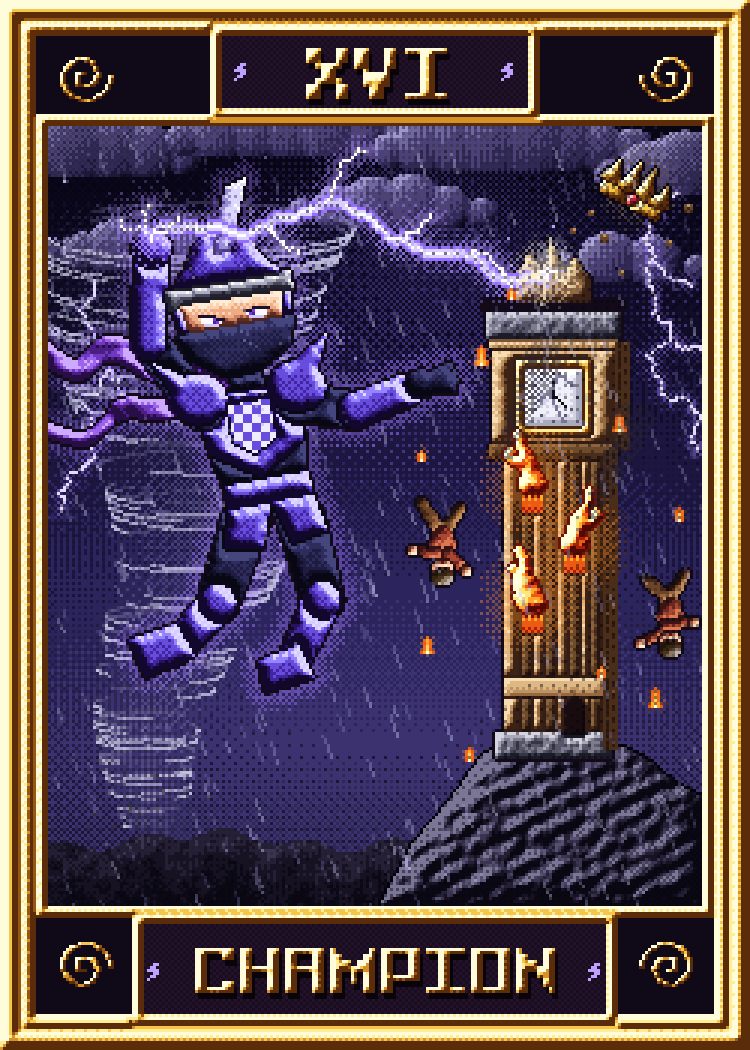
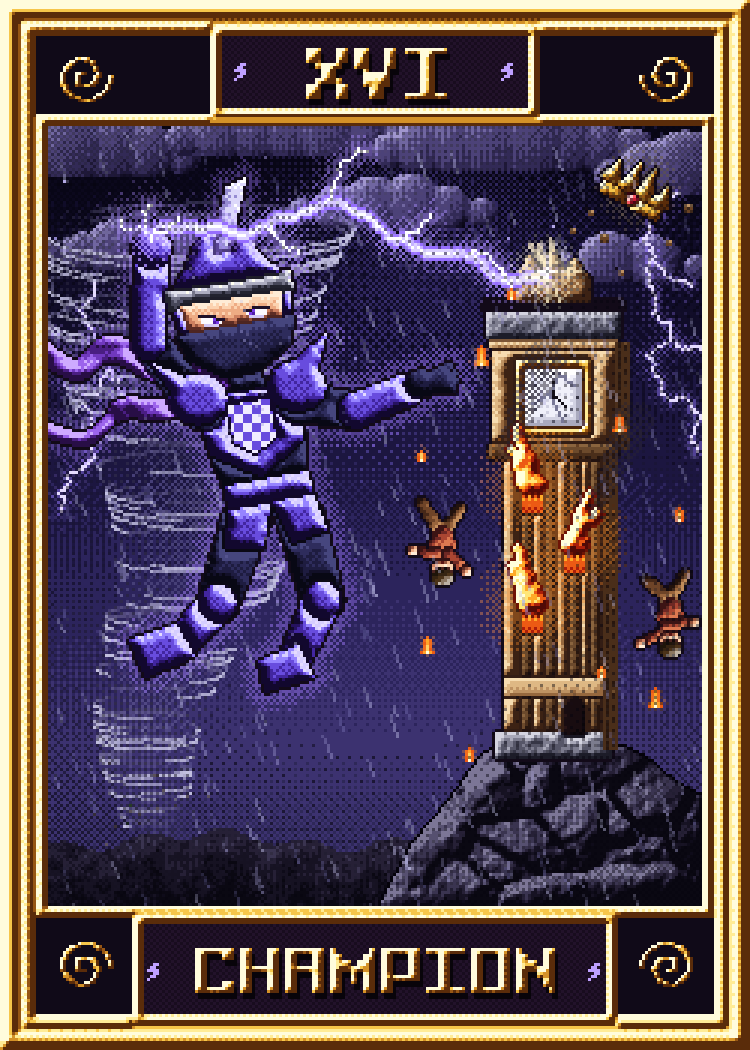
Tarot-Sleeves: 0 (Null), II und III überarbeitet
Claude-Session: https://claude.ai/code/session_01HMsYu5Zq2Fg9ikmTkg7dDc

diff --git a/data/sleeve-proposals/generator/tarot/t03_empress.py b/data/sleeve-proposals/generator/tarot/t03_empress.py
@@ -101,6 +101,7 @@ IVORY = [(150, 130, 100), (200, 184, 150), (232, 222, 196), (248, 244, 228), (25
 
 MATS = {
     's': mat(SKINV, pillow=5, k=0.9, bias=0.06),
+    'S': mat(SKINV, pillow=2, k=0.7, bias=0.18),
     'h': mat(HAIRV, pillow=4, k=1.8, noise=0.9, nscale=2, bias=0.05),
     'r': mat(ROBEB, pillow=5, k=1.5, folds=(0.3, 0.03, 0.7), bias=0.05),
     'q': mat(ROBEB[:4], pillow=1, k=1.0, bias=-0.25),
@@ -209,13 +210,13 @@ f.part('cuffLl'); f.limb(93, 198, 96, 202, 5.5, 5.5, 'g')
 f.part('scepter'); f.limb(102, 238, 88, 108, 1.8, 1.8, 'g')
 f.part('scepterOrb'); f.ellipse(88, 104, 5, 5, 'g')
 f.part('scepterCross'); f.rect(87, 92, 89, 99, 'g'); f.rect(85, 95, 91, 96, 'g')
-f.part('handLl'); f.poly([(95, 199), (103, 198), (105, 203), (104, 209), (97, 210), (94, 205)], 's')
+f.part('handLl'); f.poly([(95, 199), (103, 198), (105, 203), (104, 209), (97, 210), (94, 205)], 'S')
 # rechter Arm: Unterarm liegt auf dem Oberschenkel, Hand ruht auf dem Knie
 f.part('armRr'); f.limb(155, 168, 162, 192, 6, 5.5, 'r')
 f.part('armRf', line=False); f.limb(158, 172, 162, 188, 0.4, 1.2, 'q')
 f.part('foreRr'); f.limb(162, 192, 148, 208, 5.5, 5, 'r')
 f.part('cuffRr'); f.limb(152, 204, 149, 207, 5.5, 5.5, 'g')
-f.part('handRr'); f.poly([(146, 203), (140, 206), (135, 212), (136, 215), (142, 214), (148, 211), (150, 206)], 's')
+f.part('handRr'); f.poly([(146, 203), (140, 206), (135, 212), (136, 215), (142, 214), (148, 211), (150, 206)], 'S')
 # Kopf
 f.part('neck'); f.rect(121, 141, 129, 151, 's')
 cx, cy = 125, 128
@@ -310,17 +311,28 @@ for (tx, ty) in [(61, 200), (189, 200), (66, 250), (184, 250)]:
         px(cv, tx, ty + k, GOLD[3] if k < 3 else GOLD[1])
     px(cv, tx - 1, ty + 3, GOLD[2]); px(cv, tx + 1, ty + 3, GOLD[2])
 # Finger
-# Finger um das Zepter (quer über den Stab) und auf dem Knie
-for fy in (201, 204, 207):
+# Zepterhand: vier Finger quer um den Stab (Fugen dunkel), Daumen oben, Knöchel rechts
+FD, FM, FL = SKINV[0], SKINV[2], SKINV[4]
+for fy in (202, 204, 206, 208):
     for fx in range(96, 104):
-        if (fx + fy) % 3 != 0 and inside(fx, fy):
-            px(cv, fx, fy, SKINV[1]) if fx in (96, 103) or fy == 207 else None
-for fy in (201, 204, 207):
-    px(cv, 98, fy, SKINV[1]); px(cv, 101, fy, SKINV[1])
-px(cv, 100, 199, SKINV[4]); px(cv, 101, 199, SKINV[4])
-for (x0, y0) in [(139, 209), (141, 210), (143, 209)]:
-    px(cv, x0, y0, SKINV[1]); px(cv, x0 - 1, y0 + 1, SKINV[1]); px(cv, x0 - 2, y0 + 2, SKINV[1])
-px(cv, 147, 205, SKINV[4]); px(cv, 145, 206, SKINV[4])
+        if inside(fx, fy):
+            px(cv, fx, fy, FD if fx < 103 else FM)
+for fx in range(99, 104):
+    if inside(fx, 200):
+        px(cv, fx, 200, FL)                      # Daumen
+px(cv, 98, 200, FD); px(cv, 104, 201, FM)
+for fy in (203, 205, 207):
+    if inside(103, fy):
+        px(cv, 103, fy, FL)                      # Knöchel-Glanz
+# Hand auf dem Knie: Finger schräg nach unten, dunkle Fugen, heller Handrücken
+for (x0, y0) in [(142, 205), (144, 207), (146, 209)]:
+    for k in range(5):
+        x, y = x0 - k, y0 + k * 1.1
+        if inside(x, y):
+            px(cv, x, y, FD)
+for (x, y) in [(147, 204), (146, 204), (148, 205)]:
+    if inside(x, y):
+        px(cv, x, y, FL)
 
 # ---------------------------------------------------------------- Weizenfeld (vorne)
 WHEAT = [(110, 60, 10), (160, 100, 18), (204, 144, 30), (234, 184, 56), (250, 214, 100), (255, 238, 160)]

diff --git a/data/sleeve-proposals/generator/tarot/t16_tower.py b/data/sleeve-proposals/generator/tarot/t16_tower.py
@@ -69,7 +69,16 @@ crag = [(126, 302), (138, 280), (150, 266), (160, 252), (168, 247), (200, 246), 
 Mc = np.zeros((H, W), np.uint8)
 cv2.fillPoly(Mc, [np.array(crag, np.int32)], 1)
 Mc = Mc.astype(bool) & (yy < AY1) & (xx < AX1)
-Hc = dome(Mc, 8) + (noise(H, W, 3, seed=31, octaves=3) - 0.5) * 3.0 + np.sin(xx * 0.4 + yy * 0.9) * 0.4
+# facettierte Felsbrocken: Zellen um zufällige Keime, jede Zelle eine schräge Ebene
+seeds = [(rnd.uniform(126, 240), rnd.uniform(246, 306)) for _ in range(26)]
+cell = np.full((H, W), 1e9); cid = np.zeros((H, W), int)
+for i, (sx_, sy_) in enumerate(seeds):
+    d = np.hypot(xx - sx_, (yy - sy_) * 1.4)
+    m = d < cell
+    cell = np.where(m, d, cell); cid = np.where(m, i, cid)
+tilt = np.array([rnd.uniform(-0.25, 0.25) for _ in seeds]); tilty = np.array([rnd.uniform(-0.3, 0.05) for _ in seeds])
+Hc = dome(Mc, 8) * 0.6 - cell * 0.18 + tilt[cid] * xx * 0.3 + tilty[cid] * yy * 0.3 \
+    + (noise(H, W, 2, seed=31, octaves=2) - 0.5) * 1.2
 relief(cv, Hc.astype(np.float32), np.zeros((H, W), np.int32), [ROCK], Mc, k=1.5, bias=0.02)
 mask_outline(cv, Mc, (4, 2, 10))
 
